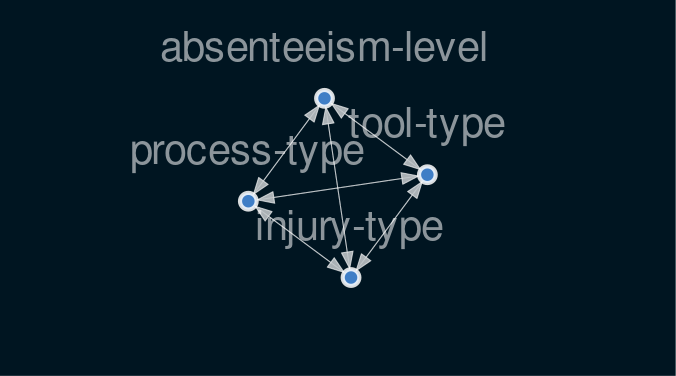
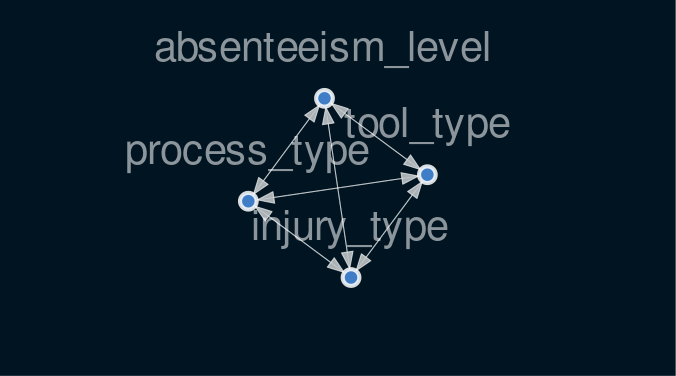
first sketch of marginal querying and updating marginals in causalnex, using car data

Changed region(s): [[0.1864, 0.2926, 0.7766, 0.4681], [0.2175, 0.0878, 0.7456, 0.2048], [0.3728, 0.5559, 0.6834, 0.6729]]

diff --git a/src/CausalNexStudy/CarUseCaseTest.py b/src/CausalNexStudy/CarUseCaseTest.py
@@ -58,16 +58,16 @@ data
 data.columns
 # %% codecell
 # Removing whitespace from the column NAMES
-assert data.columns[1] == 'process-type    ' and not data.columns[1] == 'process-type'
+assert data.columns[1] == 'process_type    ' and not data.columns[1] == 'process_type'
 
 data = data.rename(columns=lambda x: x.strip()) # inplace = False
-assert data.columns[1] == 'process-type'
+assert data.columns[1] == 'process_type'
 
 
 # Removing whitespace from the column VALUES
-assert data['process-type'][1] == 'Engine-Mount    ' and not data['process-type'][1] == 'Engine-Mount'
+assert data['process_type'][1] == 'Engine-Mount    ' and not data['process_type'][1] == 'Engine-Mount'
 data = data.apply(lambda x: x.str.strip() if x.dtype == "object" else x)
-assert data['process-type'][1] == 'Engine-Mount'
+assert data['process_type'][1] == 'Engine-Mount'
 
 # %% markdown
 # Dropping the useless 'ndx' column since that is not a variable:
@@ -188,13 +188,13 @@ carStructLearned.succ
 # %% codecell
 Image(filename_carLearned)
 # %% codecell
-carStructLearned.has_edge(u = 'process-type', v= 'injury-type')
+carStructLearned.has_edge(u = 'process_type', v= 'injury_type')
 
 
 # %% codecell
-assert carStructLearned.adj['process-type']['injury-type'] == carStructLearned.get_edge_data(u = 'process-type', v= 'injury-type')
+assert carStructLearned.adj['process_type']['injury_type'] == carStructLearned.get_edge_data(u = 'process_type', v= 'injury_type')
 
-carStructLearned.get_edge_data(u = 'process-type', v= 'injury-type')
+carStructLearned.get_edge_data(u = 'process-_type', v= 'injury_type')
 # %% codecell
 # Checking these relations are visible in the adjacency graph:
 carStructLearned.adj
@@ -204,16 +204,16 @@ carStructLearned.adj
 # NOTE: sometimes the edge weights are NOT the same, going from opposite directions. For instance there is a greater edge weight from `absenteeism-level` --> `injury-type` but a very small edge weight the other way around, from `injury-type` --> `absenteeism-level`, because it is more likely for injury type to influence absenteeism
 # * $\color{red}{\text{TODO: check if this is verified by the data}}$
 # %% codecell
-carStructLearned.get_edge_data(u = 'absenteeism-level', v = 'injury-type')
+carStructLearned.get_edge_data(u = 'absenteeism_level', v = 'injury_type')
 # %% codecell
-carStructLearned.get_edge_data(u = 'injury-type', v = 'absenteeism-level')
+carStructLearned.get_edge_data(u = 'injury_type', v = 'absenteeism_level')
 
 # %% codecell
 carStructLearned.nodes
 
 # %% codecell
 # Checking that currently, there is only one subgraph and it is the entire subgraph
-assert carStructLearned.adj ==  carStructLearned.get_largest_subgraph().adj  == carStructLearned.get_target_subgraph(node = 'injury-type').adj == carStructLearned.get_target_subgraph(node = 'process-type').adj == carStructLearned.get_target_subgraph(node = 'tool-type').adj == carStructLearned.get_target_subgraph(node = 'absenteeism-level').adj
+assert carStructLearned.adj ==  carStructLearned.get_largest_subgraph().adj  == carStructLearned.get_target_subgraph(node = 'injury_type').adj == carStructLearned.get_target_subgraph(node = 'process_type').adj == carStructLearned.get_target_subgraph(node = 'tool_type').adj == carStructLearned.get_target_subgraph(node = 'absenteeism_level').adj
 
 # TODO: what does negative weight mean?
 # TODO: why are weights not probabilities?
@@ -273,7 +273,7 @@ carStructPruned.succ
 
 # %% codecell
 # Checking that currently, there is only one subgraph and it is the entire subgraph, even in the pruned version:
-assert carStructPruned.adj ==  carStructPruned.get_largest_subgraph().adj  == carStructPruned.get_target_subgraph(node = 'injury-type').adj == carStructPruned.get_target_subgraph(node = 'process-type').adj == carStructPruned.get_target_subgraph(node = 'tool-type').adj == carStructPruned.get_target_subgraph(node = 'absenteeism-level').adj
+assert carStructPruned.adj ==  carStructPruned.get_largest_subgraph().adj  == carStructPruned.get_target_subgraph(node = 'injury_type').adj == carStructPruned.get_target_subgraph(node = 'process_type').adj == carStructPruned.get_target_subgraph(node = 'tool_type').adj == carStructPruned.get_target_subgraph(node = 'absenteeism_level').adj
 
 
 # %% markdown [markdown]
@@ -411,7 +411,7 @@ bayesNetNodeStates.node_states
 bayesNetCPD: BayesianNetwork = copy.deepcopy(bayesNetNodeStates)
 
 # Fitting the CPDs
-bayesNetCPD: BayesianNetwork = bayesNetCPD.fit_cpds(data = train,
+bayesNetCPD: BayesianNetwork = bayesNetCPD.fit_cpds(data = data,
                                                     method = "BayesianEstimator",
                                                     bayes_prior = "K2")
 
@@ -420,31 +420,22 @@ bayesNetCPD.cpds
 
 # %% codecell
 # The size of the tables depends on how many connections a node has
-Image(filename_finalStruct)
+Image(filename_carPruned)
 # %% codecell
 # G1 has many connections so its table holds all the combinations of conditional probabilities.
-bayesNetCPD.cpds['G1']
+bayesNetCPD.cpds['absenteeism_level']
 # %% codecell
-bayesNetCPD.cpds['absences']
+bayesNetCPD.cpds['process_type']
 # %% codecell
-# Studytime variable is a singular ndoe so its table is small, no conditional probabilities here.
-bayesNetCPD.cpds['studytime']
+bayesNetCPD.cpds['tool_type']
 # %% codecell
-# Pstatus has only outgoing nodes, no incoming nodes so has no conditional probabilities.
-bayesNetCPD.cpds['Pstatus']
-# %% codecell
-# Famrel has two incoming nodes (PStatus and higher) so models their conditional probabilities.
-bayesNetCPD.cpds['famrel']
-# %% codecell
-bayesNetCPD.cpds['G2']
-# %% codecell
-bayesNetCPD.cpds['G3']
+bayesNetCPD.cpds['injury_type']
 
 # %% markdown [markdown]
-# The CPD dictionaries are multiindexed so the `loc` functino can be a useful way to interact with them:
+# The CPD dictionaries are multiindexed so the `loc` function can be a useful way to interact with them:
 # %% codecell
 # TODO: https://hyp.is/_95epIOuEeq_HdeYjzCPXQ/causalnex.readthedocs.io/en/latest/03_tutorial/03_tutorial.html
-discrData.loc[1:5,['address', 'G1', 'paid', 'higher']]
+data.loc[1:5,data.columns]
 
 
 
@@ -452,31 +443,34 @@ discrData.loc[1:5,['address', 'G1', 'paid', 'higher']]
 # ## Predict the State given the Input Data
 # The `predict` method of `BayesianNetwork` allos us to make predictions based on the data using the learnt network. For example we want to predict if a student passes of failes the exam based on the input data. Consider an incoming student data like this:
 # %% codecell
-# Row number 18
-discrData.loc[18, discrData.columns != 'G1']
+# Row number 2
+data.loc[2, data.columns != 'absenteeism_level']
+# %% markdown
+# Here is the data again for reference. We see the absentee level is mid-range for this injury time `Electrical-Shock` and tool-type `Power-Gun` and process-type `Engine-Mount`
+# %% codecell
+data
 # %% markdown [markdown]
-# Based on this data, want to predict if this particular student (in row 18) will succeed on their exam. Intuitively expect this student not to succeed because they spend shorter amount of study time and have failed in the past.
+# Based on this data, want to predict if this particular observation (worker) will have a high absence level.
 #
 # There are two kinds of prediction methods:
 # * [`predict_probability(data, node)`](https://causalnex.readthedocs.io/en/latest/source/api_docs/causalnex.network.BayesianNetwork.html#causalnex.network.BayesianNetwork.predict_probability): Predict the **probability of each possible state of a node**, based on some input data.
 # * [`predict(data, node)`](https://causalnex.readthedocs.io/en/latest/source/api_docs/causalnex.network.BayesianNetwork.html#causalnex.network.BayesianNetwork.predict): Predict the **state of a node ** based on some input data, using the Bayesian Network.
 # %% codecell
-predictionProbs = bayesNetCPD.predict_probability(data = discrData, node = 'G1')
+
+predictionProbs = bayesNetCPD.predict_probability(data = data, node = 'absenteeism_level')
 predictionProbs
 # %% codecell
-# Student 18 passes with probability 0.358, and fails with prob 0.64
-predictionProbs.loc[18, :]
+# More likely to have no absentee level for those variables than to have absentee level 2
+predictionProbs.loc[2, :]
 # %% codecell
-# This function does predictions for ALL observations (all students)
-predictions = bayesNetCPD.predict(data = discrData, node = 'G1')
+# This function does predictions for ALL observations (all workers)
+predictions = bayesNetCPD.predict(data = data, node = 'absenteeism_level')
 predictions
-# %% codecell
-predictions.loc[18, :]
+
 # %% markdown [markdown]
 # Compare this prediction to the ground truth:
 # %% codecell
-print(f"Student 18 is predicted to {predictions.loc[18, 'G1_prediction']}")
-print(f"Ground truth for student 18 is {discrData.loc[18, 'G1']}")
+data
 
 
 # %% markdown [markdown]
@@ -487,24 +481,24 @@ print(f"Ground truth for student 18 is {discrData.loc[18, 'G1']}")
 # %% codecell
 from causalnex.evaluation import classification_report
 
-classification_report(bn = bayesNetCPD, data = test, node = 'G1')
+classification_report(bn = bayesNetCPD, data = data, node = 'absenteeism_level')
 # %% markdown [markdown]
-# **Interpret Results of classification report:** this report shows that the model can classify reasonably well whether a student passs the exam. For predictions where the student fails, the precision is adequate but recall is bad. This implies that we can rely on predictions for `G1_Fail` but we are likely to miss some of the predictions we should have made. Perhaps these missing predictions are a result of something missing in our structure
-# * ALERT - explore graph structure when the recall is bad
+# **Interpret Results of classification report:** Precisions are very low for the no absentee level, and both precions and recall are very low for other absentee levels, implying we are likely to miss some of the predictions we should have made. Perhaps these missing predictions are a result of something missing in our structure
+# * $\color{red}{\text{ALERT:}}$  explore graph structure when the recall is bad
 #
 #
-# ## ROC / AUC
+# ## Measure 2: ROC / AUC
 # The ROC and AUC can be obtained with `roc_auc` method within CausalNex metrics module.
 # ROC curve is computed by micro-averaging predictions made across all states (classes) of the target node.
 # %% codecell
 from causalnex.evaluation import roc_auc
 
-roc, auc = roc_auc(bn = bayesNetCPD, data = test, node = 'G1')
+roc, auc = roc_auc(bn = bayesNetCPD, data = data, node = 'absenteeism_level')
 
 print(f"ROC = \n{roc}\n")
 print(f"AUC = {auc}")
 # %% markdown [markdown]
-# High value of AUC gives confidence in model performance
+# High value of AUC gives confidence in model performance, low value of AUC implies poor model performance.
 #
 #
 #
@@ -520,7 +514,7 @@ print(f"AUC = {auc}")
 bayesNetFull = copy.deepcopy(bayesNetCPD)
 
 # Fitting CPDs with full data
-bayesNetFull: BayesianNetwork = bayesNetFull.fit_cpds(data = discrData,
+bayesNetFull: BayesianNetwork = bayesNetFull.fit_cpds(data = data,
                                                      method = "BayesianEstimator",
                                                      bayes_prior = "K2")
 # %% markdown [markdown]
@@ -531,7 +525,6 @@ bayesNetFull: BayesianNetwork = bayesNetFull.fit_cpds(data = discrData,
 # %% codecell
 from causalnex.inference import InferenceEngine
 
-
 eng = InferenceEngine(bn = bayesNetFull)
 eng
 # %% markdown [markdown]
@@ -540,22 +533,22 @@ eng
 marginalDistLearned: Dict[str, Dict[str, float]] = eng.query()
 marginalDistLearned
 # %% codecell
-marginalDistLearned['address']
+marginalDistLearned['injury_type']
 # %% codecell
-marginalDistLearned['G1']
+marginalDistLearned['absenteeism_level']
+
 
 # %% markdown [markdown]
-# Output tells us that `P(G1=Fail) ~ 0.25` and `P(G1 = Pass) ~ 0.75`. As a quick sanity check can compute what proportion of our data are `Fail` and `Pass`, should give nearly the same result:
+# As a quick sanity check can compute the corresponding proportion of our data , which should give nearly the same result:
 # %% codecell
 import numpy as np
 
-labels, counts = np.unique(discrData['G1'], return_counts = True)
+labels, counts = np.unique(data['absenteeism_level'], return_counts = True)
 
 print(list(zip(labels, counts)))
-print('\nProportion failures = {}'.format(counts[0] / sum(counts)))
-print('\nProportion passes = {}'.format(counts[1] / sum(counts)))
 
-# %% codecell
+print('\nProportions for each label: \n') # The no-absentee level has highest probability, similar to the learned bayesian result.
+list(zip(labels, counts / sum(counts)))
 
 
 
@@ -568,101 +561,54 @@ print('\nProportion passes = {}'.format(counts[1] / sum(counts)))
 # These observations can be made anywhere in the network and their impact will be propagated through to the node of interest.
 # %% codecell
 # Reminding of the data types for each variable:
-discrDataVals
+dataVals
 # %% codecell
-# Reminder of nodes you CAN query (for instance putting 'health' in the dictionary argument of 'query' will give us an error)
+# Reminder of nodes you CAN query (for instance putting a node name that doesn't exist would give an error)
 bayesNetFull.nodes
 # %% codecell
-marginalDistObs_biasPass: Dict[str, Dict[str, float]] = eng.query({'studytime': 'long_studytime', 'paid':'yes', 'higher':'yes', 'absences':'No-absence', 'failures':'no_failure'})
+# Trying to influence the injurytype variable and also later see how absentee is affected:
+#marginalDistObs_biasContusion: Dict[str, Dict[str, float]] = eng.query({'injury_type': 'Contact-Contusion' })
 
 # Seeing if biasing in favor of failing will influence the observed marginals:
-marginalDistObs_biasFail: Dict[str, Dict[str, float]] = eng.query({'studytime': 'short_studytime', 'paid':'no', 'higher':'no', 'absences':'High-absence', 'failures': 'yes_failure'})
+#marginalDistObs_biasShock: Dict[str, Dict[str, float]] = eng.query({'injury_type': 'Electrical-Shock'})
 
 # %% codecell
 # Higher probability of passing when have the above observations, since they are another set of observations in favor of passing.
-marginalDistLearned['G1']
+marginalDistLearned['injury_type']
 # %% codecell
-marginalDistObs_biasPass['G1']
+# Biasing towards contusion type injury
+eng.query({'injury_type': 'Contact-Contusion' })['injury_type']
 # %% codecell
-marginalDistObs_biasFail['G1']
-
+eng.query({'injury_type': 'Contact-Contusion',
+           'tool_type': 'Forklift',
+           'process_type' : 'Sun-Roof-Housing' })['injury_type']
 # %% codecell
-marginalDistLearned['G2']
-# %% codecell
-# G2 and G3 nodes don't show bias probability because they are not many conditionals on them.
-marginalDistObs_biasPass['G2']
-# %% codecell
-marginalDistObs_biasFail['G2']
-
-# %% codecell
-marginalDistLearned['G3']
-# %% codecell
-marginalDistObs_biasPass['G3']
-# %% codecell
-marginalDistObs_biasFail['G3']
-
-# %% markdown [markdown]
-# Looking at difference in likelihood of `G1` based on just `studytime`. See that students who study longer are more likely to pass on their exam:
-# %% codecell
-marginalDist_short = eng.query({'studytime':'short_studytime'})
-marginalDist_long = eng.query({'studytime': 'long_studytime'})
-
-print('Marginal G1 | Short Studytime', marginalDist_short['G1'])
-print('Marginal G1 | Long Studytime', marginalDist_long['G1'])
-
-# %% markdown [markdown]
-# ## Interventions with Do Calculus
-# Do-Calculus, allows us to specify interventions.
+# Biasing towards burn type injury
+# NOTE: so far, querying the biased variable results in too obvious an answer. Below we start querying the response variable, other than the one we bias on.
+eng.query({'injury_type': 'Electrical-Burn' })['injury_type']
+# %% markdown
+# Interesting test cases: querying the response `absenteeism_level` after biasing, say, the `injury_type` and other variables.
 #
-# ### Updating a Node Distribution
-# Can apply an intervention to any node in our data, updating its distribution using a `do` operator, which means asking our mdoel "what if" something were different.
-#
-# For example, can ask what would happen if 100% of students wanted to go on to do higher education.
+# * **Biasing variable:** `injury_type`
+# * **Querying variable:** `absenteeism_level`
 # %% codecell
-print("'higher' marginal distribution before DO: ", eng.query()['higher'])
+bias: Dict[str, str] = {'injury_type' : 'Contact-Contusion'}
+query: str = 'absenteeism_level'
 
-# Make the intervention on the network
-eng.do_intervention(node = 'higher', state = {'yes': 1.0, 'no': 0.0}) # all students yes
-
-print("'higher' marginal distribution after DO: ", eng.query()['higher'])
-# %% markdown [markdown]
-# ### Resetting a Node Distribution
-# We can reset any interventions that we make using `reset_intervention` method and providing the node we want to reset:
+marginalDistLearned[query]
 # %% codecell
-eng.reset_do('higher')
-
-eng.query()['higher'] # same as before
-
-
-# %% markdown [markdown]
-# ### Effect of DO on Marginals
-# We can use `query` to find the effect that an intervention has on our marginal likelihoods of OTHER variables, not just on the INTERVENED variable.
-#
-# **Example 1:** change 'higher' and check grade 'G1' (how the likelihood of achieving a pass changes if 100% of students wanted to do higher education)
-#
-# Answer: if 100% of students wanted to do higher education (as opposed to 90% in our data population) , then we estimate the pass rate would increase from 74.7% to 79.3%.
+# See absentee == 0 probability is lower than the learned version, given Contact Contusion injury, which is a serious injury
+higherProbAbsent: Dict[str, float] = eng.query(bias)[query]
+higherProbAbsent
 # %% codecell
-print('marginal G1', eng.query()['G1'])
+# Testing less serious injury
+bias['injury_type'] = 'Electrical-Burn'
 
-eng.do_intervention(node = 'higher', state = {'yes':1.0, 'no': 0.0})
-print('updated marginal G1', eng.query()['G1'])
+# Got higher probability of no absenteeism for less serious burn!
+lessProbAbsent: Dict[str, float] = eng.query(bias)[query]
+lessProbAbsent
 # %% codecell
-# This is how we know it is 90% of the population that does higher education:
-eng.reset_do('higher')
+assert lessProbAbsent['Absenteeism-00'] > higherProbAbsent['Absenteeism-00'], "Should have higher probability of Absenteeism-00 for Electrical-Burn than for Contusion (burn is less serious than contusion)"
 
-eng.query()['higher']
+assert lessProbAbsent['Absenteeism-03'] < higherProbAbsent['Absenteeism-03'], "Should have higher probability of Absenteeism-03 for Contusion than for Electrical-Burn (Contusion is more serious than burn)"
 # %% codecell
-# OR:
-labels, counts = np.unique(discrData['higher'], return_counts = True)
-counts / sum(counts)
-
-
-# %% markdown [markdown]
-# **Example 2:** change 'higher' and check grade 'G1' (how the likelihood of achieving a pass changes if 80% of students wanted to do higher education)
-# %% codecell
-eng.reset_do('higher')
-
-print('marginal G1', eng.query()['G1'])
-
-eng.do_intervention(node = 'higher', state = {'yes':0.8, 'no': 0.2})
-print('updated marginal G1', eng.query()['G1']) # fail is actually higher!!!!
